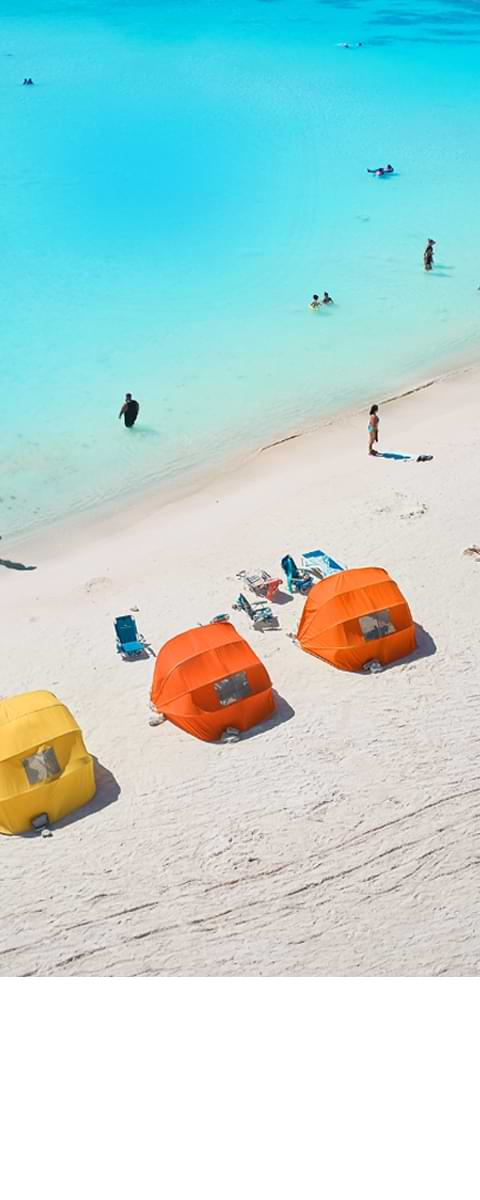
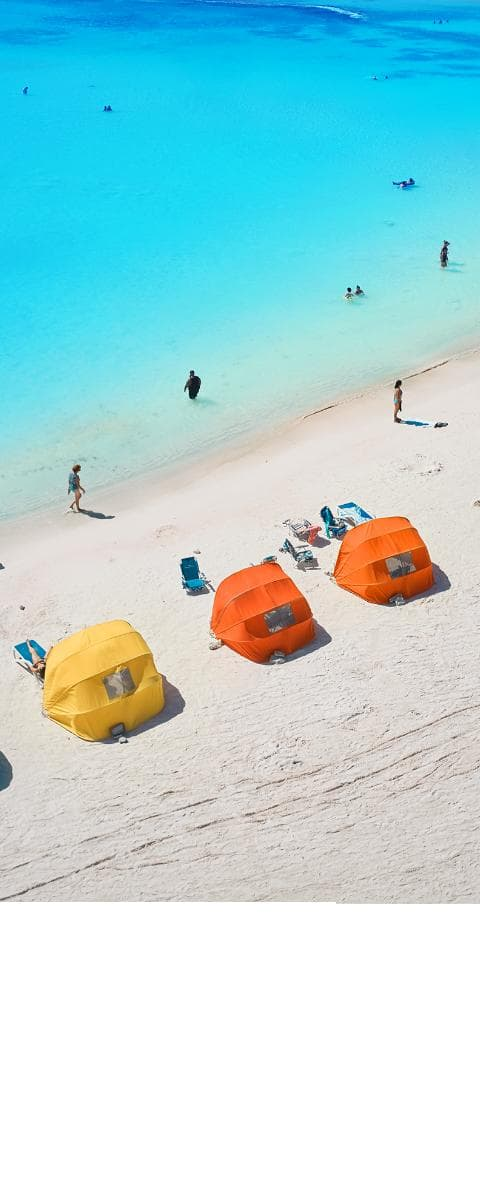
Route 1 updated

diff --git a/JetBlue_Caribbean_Vacation_route1/richLoads/CA_Vacation_R1_160x600_RL1/stylesRL1.css b/JetBlue_Caribbean_Vacation_route1/richLoads/CA_Vacation_R1_160x600_RL1/stylesRL1.css
@@ -33,8 +33,8 @@ video {
 
 #main_content {
   position: absolute;
-  top: -1px;
-  left: -1px;
+  top: 0px;
+  left: 0px;
   width: 160px;
   height: 600px;
 }

diff --git a/JetBlue_Caribbean_Vacation_route1/richLoads/CA_Vacation_R1_160x600_RL2/stylesRL2.css b/JetBlue_Caribbean_Vacation_route1/richLoads/CA_Vacation_R1_160x600_RL2/stylesRL2.css
@@ -33,8 +33,8 @@ video {
 
 #main_content {
   position: absolute;
-  top: -1px;
-  left: -1px;
+  top: 0px;
+  left: 0px;
   width: 160px;
   height: 600px;
 }

diff --git a/JetBlue_Caribbean_Vacation_route1/richLoads/CA_Vacation_R1_300x250_RL1/stylesRL1.css b/JetBlue_Caribbean_Vacation_route1/richLoads/CA_Vacation_R1_300x250_RL1/stylesRL1.css
@@ -33,8 +33,8 @@ video {
 
 #main_content {
   position: absolute;
-  top: -1px;
-  left: -1px;
+  top: 0px;
+  left: 0px;
   width: 300px;
   height: 250px;
 }

diff --git a/JetBlue_Caribbean_Vacation_route1/richLoads/CA_Vacation_R1_300x600_RL1/stylesRL1.css b/JetBlue_Caribbean_Vacation_route1/richLoads/CA_Vacation_R1_300x600_RL1/stylesRL1.css
@@ -33,8 +33,8 @@ video {
 
 #main_content {
   position: absolute;
-  top: -1px;
-  left: -1px;
+  top: 0px;
+  left: 0px;
   width: 300px;
   height: 600px;
 }

diff --git a/JetBlue_Caribbean_Vacation_route1/richLoads/CA_Vacation_R1_728x90_RL1/stylesRL1.css b/JetBlue_Caribbean_Vacation_route1/richLoads/CA_Vacation_R1_728x90_RL1/stylesRL1.css
@@ -33,8 +33,8 @@ video {
 
 #main_content {
   position: absolute;
-  top: -1px;
-  left: -1px;
+  top: 0px;
+  left: 0px;
   width: 728px;
   height: 90px;
 }
